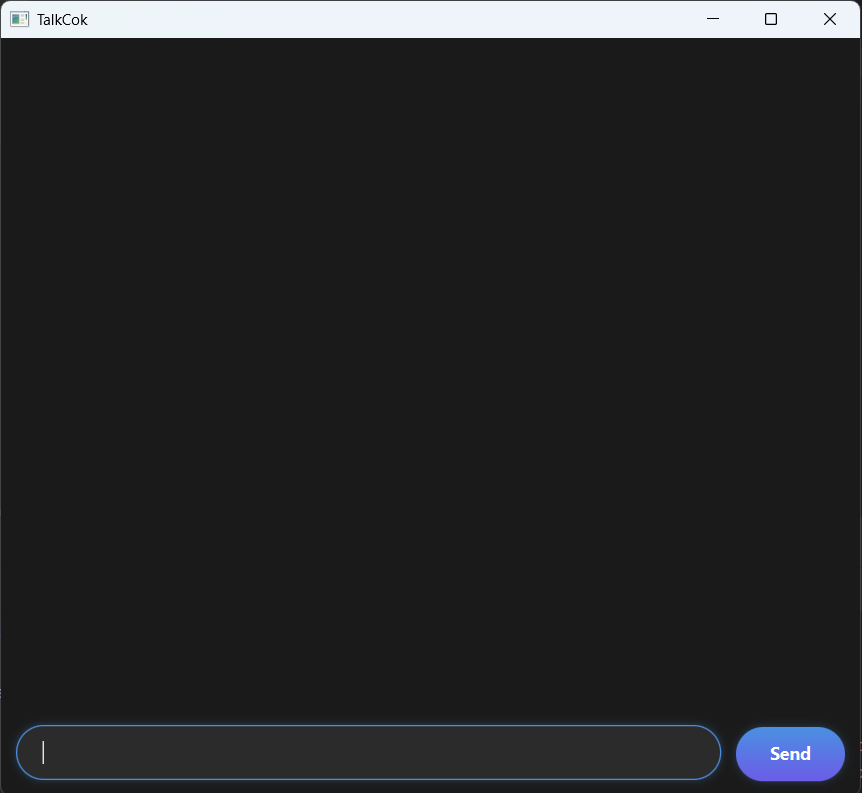
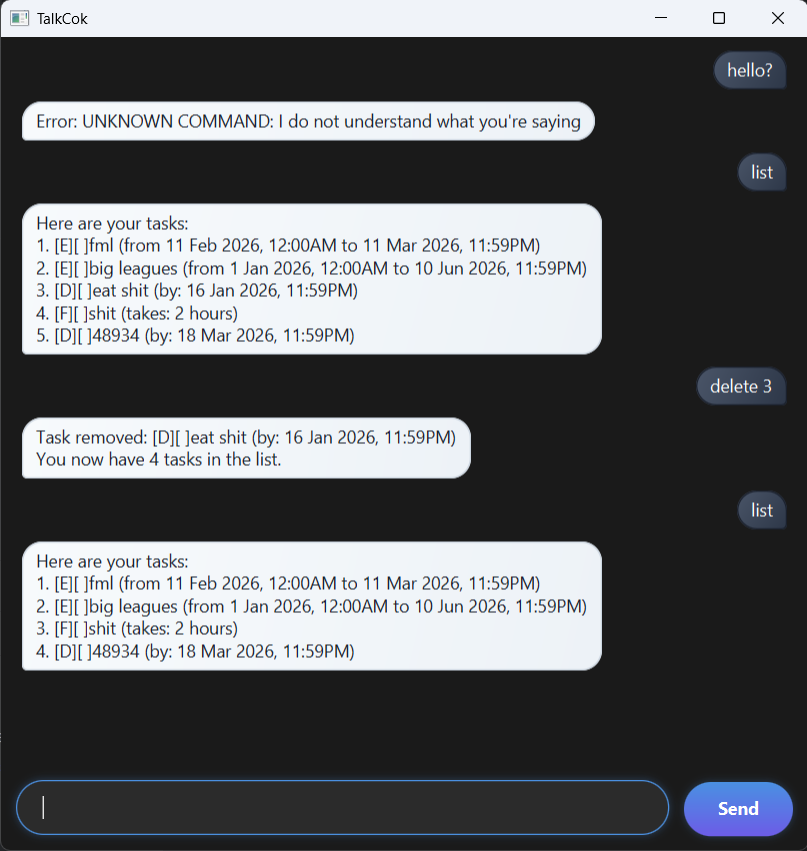
Change Ui.png used

diff --git a/docs/README.md b/docs/README.md
@@ -12,7 +12,7 @@ Deadlines are one of the four types of tasks you can add. It is simply a task wi
 
 To add such a task, enter "deadline /by" followed by the task and its deadline behind.
 
-Example: `deadline cut hair /by 25-4-2026` (Note that this date is in dd-mm-yyyy format but not the only
+Example: `deadline cut hair /by 25-4-2026` (Note that this date is in dd-mm-yyyy format, but it's not the only
 accepted format.)
 
 The bot should reply with:
